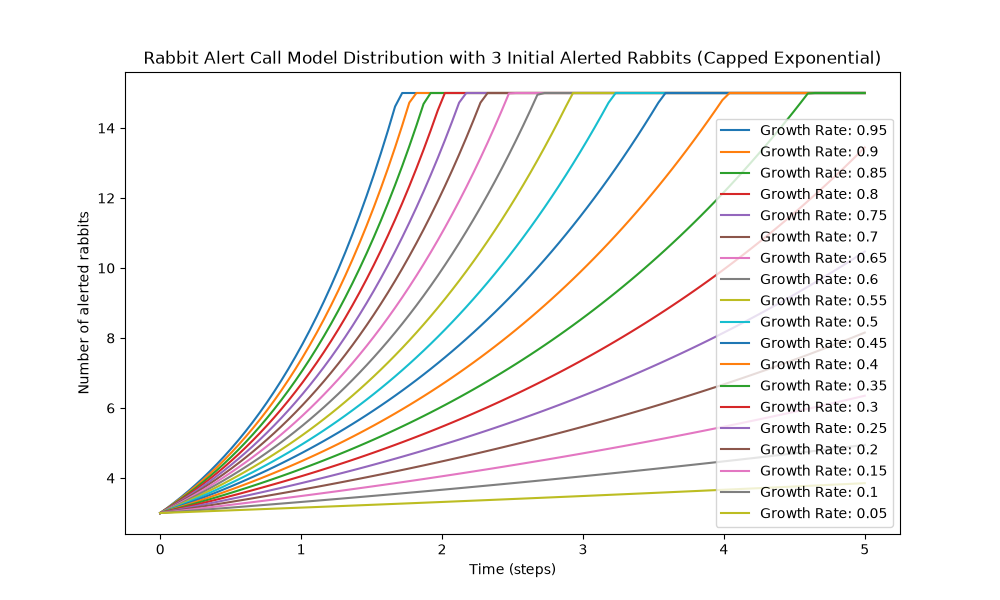
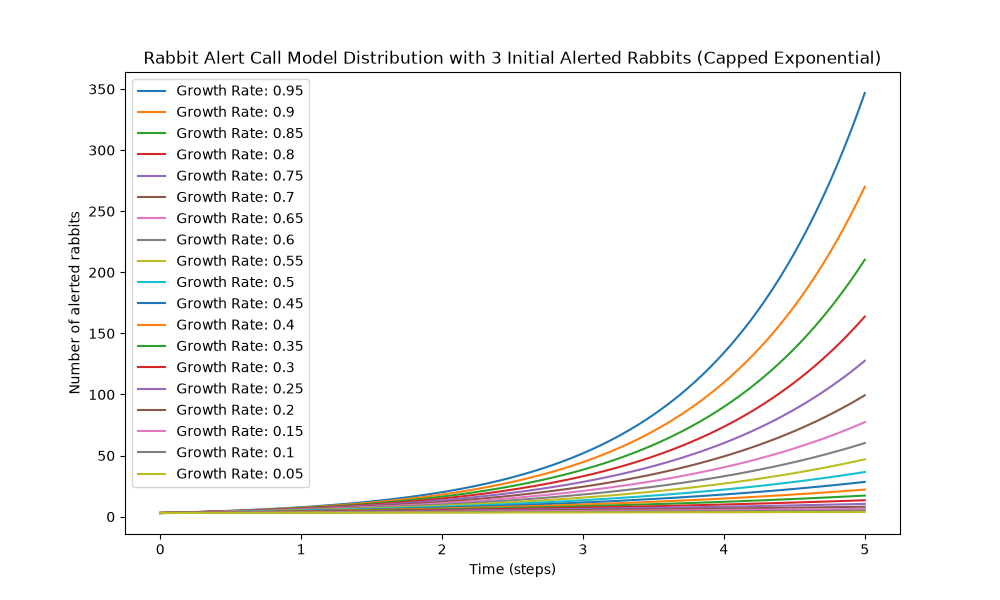
Snapshot for considering population. Potential Fix: separate popultion from # alerted

diff --git a/compare_models.py b/compare_models.py
@@ -2,6 +2,7 @@ import numpy as np
 
 import exponential_model
 import capped_exponential_model
+import model_with_life
 import matplotlib.pyplot as plt
 import argparse
 
@@ -9,6 +10,8 @@ if __name__=="__main__":
     parser = argparse.ArgumentParser(description="Insert parameters for modeling rabbit alert calls.")
     parser.add_argument("--initial_alerted_points", type=int, nargs="+", default=[1, 2, 3], help="Number of rabbits that detect the predator immediately")
     parser.add_argument("--spread_rates", type=float, nargs="+", default = np.arange(0.05, 1.0, 0.05), help="Fastness of how rabbits alert each other")
+    parser.add_argument("--born_amounts", type=int, nargs="+", default=[0, 5, 10, 15], help="Number of rabbits born in a warren/burrow")
+    parser.add_argument("--dead_amounts", type=int, nargs="+", default=[0, 5, 10, 15], help="Number of rabbits that die in a warren/burrow")
     parser.add_argument("--capacity", type=int, default = 15, help="Number of rabbits as part of the habitat")
     args = parser.parse_args()
     
@@ -48,4 +51,26 @@ if __name__=="__main__":
             plt.plot(x, y, label=f"Growth Rate: {round(rate, 2)}")
         plt.legend()
         plt.savefig(f"rabbit_alerts_{initial_point}_spread_rates_capped_exponential.png")
+        plt.close()
+        
+        plt.figure(figsize=(10,6))
+        plt.xlabel("Time (steps)")
+        plt.ylabel("Number of alerted rabbits")
+        if initial_point == 1:
+            plt.title(f"Rabbit Alert Call Model Distribution with 1 Initial Alerted Rabbit (Capped Exponential) and Varying Born/Dead Rates")
+        else:
+            plt.title(f"Rabbit Alert Call Model Distribution with {initial_point} Initial Alerted Rabbits (Capped Exponential) and Varying Born/Dead Rates")
+        # plot capped exponential model with combinations of initial conditions, births, and deaths, hard-coded spread rate of 0.1
+        for born in args.born_amounts:
+            for dead in args.dead_amounts:
+                equation = model_with_life.form_differential_equation(born=born, dead=dead, spread_rate=0.1)
+                solution = model_with_life.solve_equation(equation, 1)
+                poi = model_with_life.find_point_of_intersection(solution, args.capacity)
+                print(f"DEBUG: {poi}")
+                print(f"DEBUG: type of poi: {type(poi)}")
+                piecewise_solution = model_with_life.form_piecewise_solution(solution, args.capacity, poi)
+                x, y = model_with_life.gather_data(piecewise_solution, start_time=0, end_time=5, num_points=100)
+                plt.plot(x, y, label=f"Born: {born}, Dead: {dead}")
+        plt.legend()
+        plt.savefig(f"rabbit_alerts_{initial_point}_spread_rate_0.1_born_dead_capped_exponential.png")
         plt.close()

diff --git a/model_with_life.py b/model_with_life.py
@@ -1,4 +1,5 @@
 import numpy as np
+import sympy
 from sympy import Eq, Equality, diff, Function, Symbol, lambdify, Piecewise
 from sympy.solvers import dsolve, solve
 from sympy.abc import t
@@ -86,10 +87,14 @@ def find_point_of_intersection(solution: Equality, carrying_capacity: int):
     return point[0]
 
 def form_piecewise_solution(solution: Equality, carrying_capacity: int, poi: float):
-    piecewise_func = Piecewise(
-        (solution.rhs, t < poi),
-        (carrying_capacity, t >= poi)
-    )
+    # if the point of intersecttion is a complex #, then we will not use it and will just return the original solution
+    if type(poi) == sympy.core.add.Add:
+        piecewise_func = solution.rhs
+    else:
+        piecewise_func = Piecewise(
+            (solution.rhs, t < poi),
+            (carrying_capacity, t >= poi)
+        )
     return piecewise_func
 
 if __name__=="__main__":
